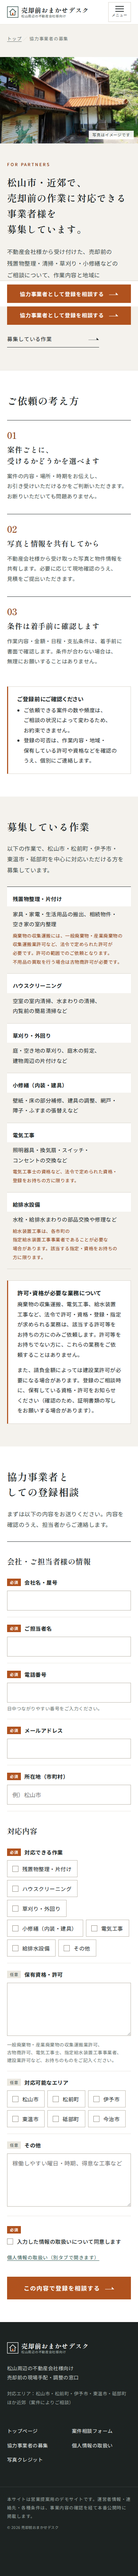
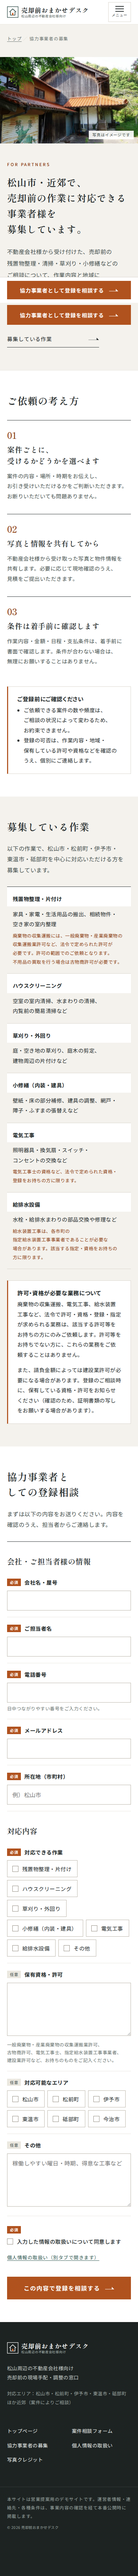
対応内容の見出しを「残置物の搬出手配」に変更
Claude-Session: https://claude.ai/code/session_0117X5fDaTw2nefB4ZxQFtAT

Changed region(s): [[0.0615, 0.0936, 0.9538, 0.1248]]

diff --git a/src/pages/index.html b/src/pages/index.html
@@ -126,7 +126,7 @@
           <ul><li>庭・空き地の草刈り</li><li>庭木の剪定</li><li>建物まわりの片付け</li></ul></div>
       </div>
       <div class="svc-row">
-        <h3>残置物の整理<span class="en">CLEAR-OUT</span></h3>
+        <h3>残置物の搬出手配<span class="en">CLEAR-OUT</span></h3>
         <div><p><span class="svc-when">媒介開始前・相続物件</span>売主様のご確認後、残置物の整理と搬出を手配します。収集・運搬は許可を持つ事業者が担当します。</p>
           <ul><li>売主様確認済みの残置物の搬出手配</li><li>物置・倉庫内の残置物の搬出手配</li></ul></div>
       </div>

diff --git a/docs/gpt-review/review-bundle.md b/docs/gpt-review/review-bundle.md
@@ -125,7 +125,7 @@ SITE_IMPLEMENTATION_70 = 上記合計 70 以上。
 ```json
 {
   "base": "http://localhost:4173/ehime-shuzen-desk/",
-  "date": "2026-10-05T17:06:07.520Z",
+  "date": "2026-10-05T17:07:46.666Z",
   "checks": [
     "/ @390: no horizontal overflow",
     "partner/ @390: no horizontal overflow",
@@ -475,7 +475,7 @@ SITE_IMPLEMENTATION_70 = 上記合計 70 以上。
           <ul><li>庭・空き地の草刈り</li><li>庭木の剪定</li><li>建物まわりの片付け</li></ul></div>
       </div>
       <div class="svc-row">
-        <h3>残置物の整理<span class="en">CLEAR-OUT</span></h3>
+        <h3>残置物の搬出手配<span class="en">CLEAR-OUT</span></h3>
         <div><p><span class="svc-when">媒介開始前・相続物件</span>売主様のご確認後、残置物の整理と搬出を手配します。収集・運搬は許可を持つ事業者が担当します。</p>
           <ul><li>売主様確認済みの残置物の搬出手配</li><li>物置・倉庫内の残置物の搬出手配</li></ul></div>
       </div>
